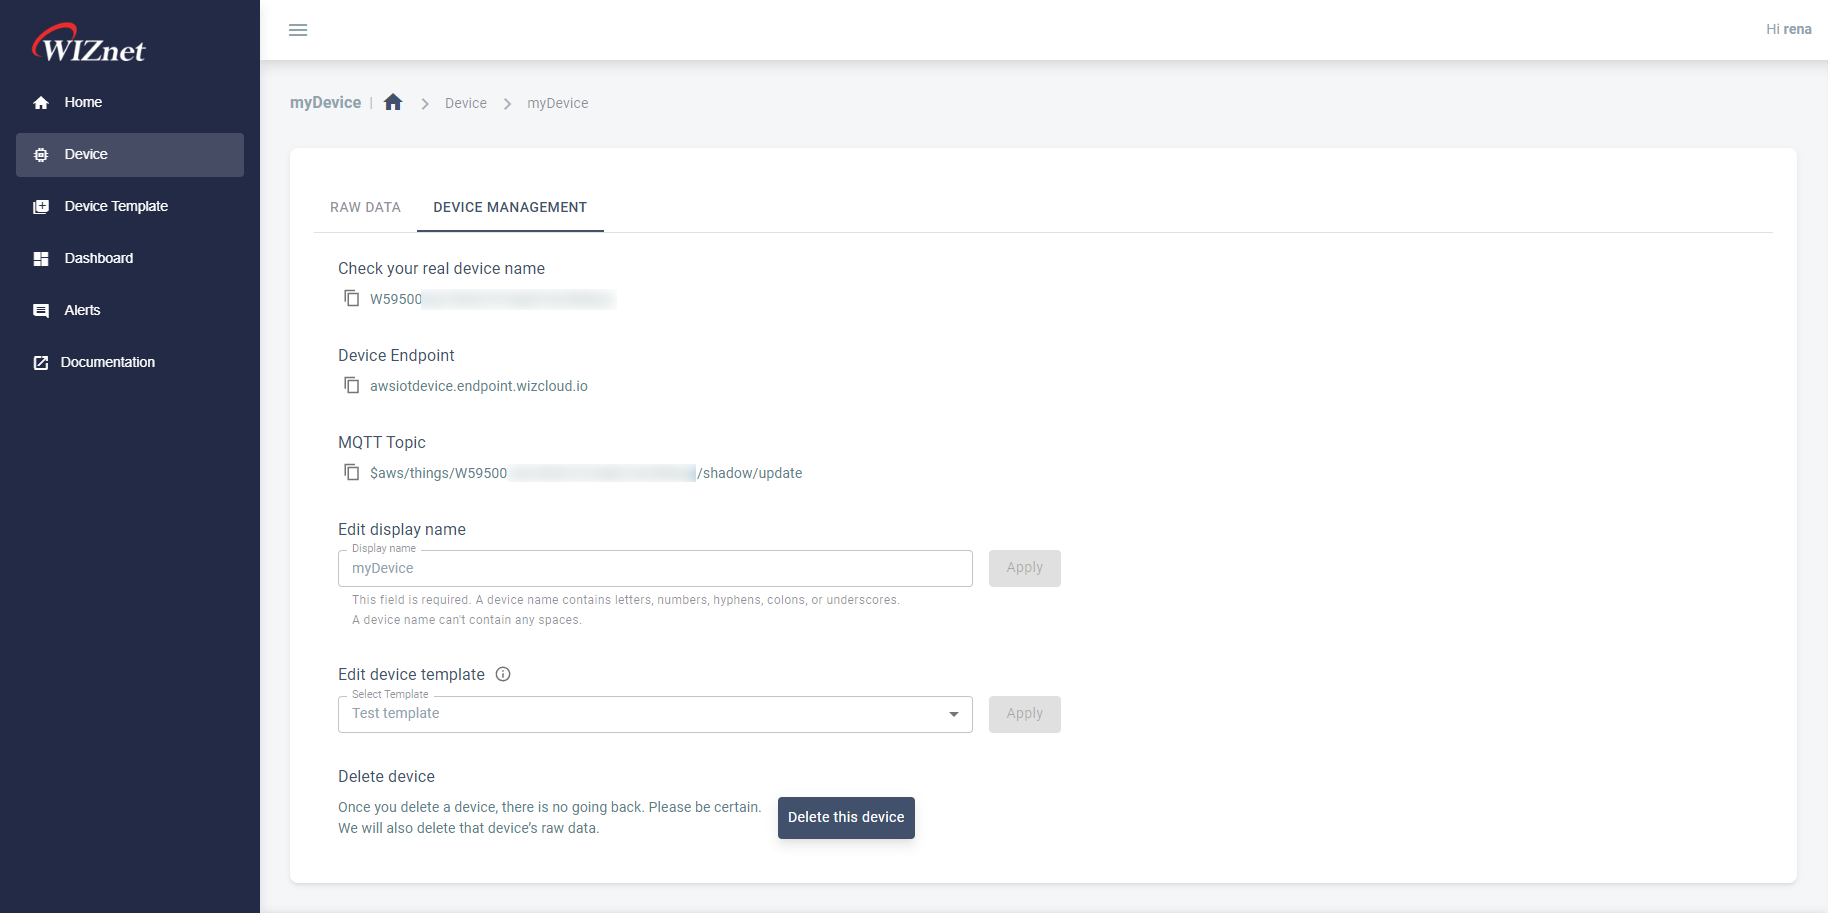
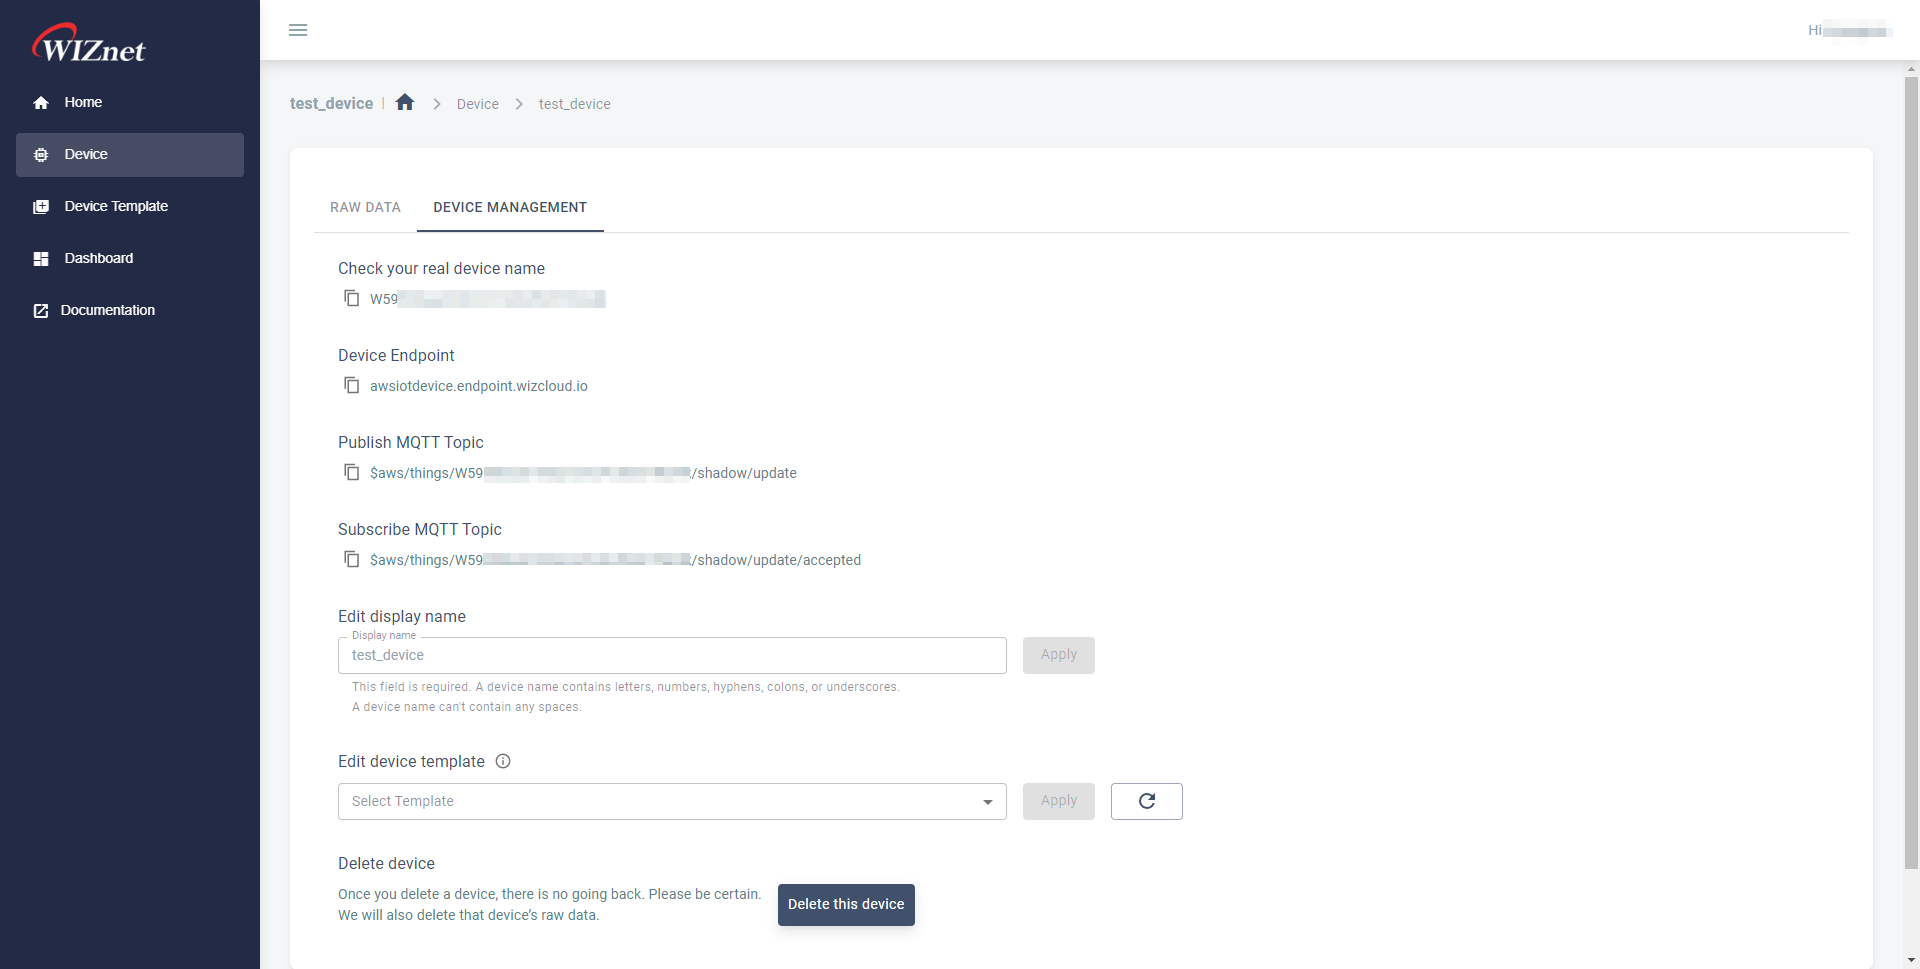
Add topic explain

Changed region(s): [[0.0, 0.0, 1.0, 1.0], [0.5301, 0.7667, 0.6236, 0.8587], [0.5301, 0.5827, 0.5925, 0.7054]]

diff --git a/i18n/ko-kr/docusaurus-plugin-content-docs/current/quickstart/how-to-connect-device/creating-dashboard.md b/i18n/ko-kr/docusaurus-plugin-content-docs/current/quickstart/how-to-connect-device/creating-dashboard.md
@@ -45,7 +45,9 @@ import useBaseUrl from '@docusaurus/useBaseUrl'
 <br />
 
 위젯 생성 입력란들은 모두 필수입니다. 먼저 위젯 타이틀을 입력하고, 위젯 타입을 선택합니다. 위젯 타입에는 **D2C, C2D** 두 개의 타입이 있습니다.
-**D2C** 타입은 **Device to Control**의 약자로, 디바이스에서 보내는 데이터를 시각화하는 데에 사용하는 위젯입니다. 대표적으로 Line, Bar 차트 등이 있습니다. **C2D** 는 Control to Device 의 약자로, 디바이스에 명령을 보내는 위젯 타입입니다. 디바이스에 MQTT Message를 보내거나 ON/OFF 메시지를 보낼 수 있습니다. <br />
+**D2C** 타입은 **Device to Control**의 약자로, 디바이스에서 보내는 데이터를 시각화하는 데에 사용하는 위젯입니다. 대표적으로 Line, Bar 차트 등이 있습니다. **C2D** 는 Control to Device 의 약자로, 디바이스에 명령을 보내는 위젯 타입입니다. 디바이스에 MQTT Message를 보내거나 ON/OFF 메시지를 보낼 수 있습니다.
+
+C2D 위젯 중 **Publish MQTT Message** 위젯은 토픽이 정해져 있지 않고, `원하는 토픽`으로 `원하는 형태의 메시지`를 보낼 수 있습니다. ON/OFF 메시지를 보내는 **Switch** 위젯은 `$aws/things/YOUR_DEVICE_NAME/shadow/update/accepted` 토픽을 사용해서, `{"message": "on"}` 형태의 메시지를 보냅니다.
 
 여기에서는 Line chart를 만들기 위해서 D2C 타입을 선택했습니다. 타입을 선택한 후 Widget Library에서 **Browse** 버튼을 클릭해서 위젯을 선택합니다.
 

diff --git a/docs/quickstart/how-to-connect-device/creating-dashboard.md b/docs/quickstart/how-to-connect-device/creating-dashboard.md
@@ -48,6 +48,8 @@ All input fields are required. First, enter the widget title and select the widg
 **D2C** type is an abbreviation of **Device to Control** and is a widget used to visualize the data sent from the device. Typical examples include line and bar charts.
 **C2D** is an abbreviation of **Control to Device**, which is a widget type that sends commands to the device. You can send MQTT messages or send ON/OFF messages.
 
+Among C2D widgets, the **Publish MQTT Message** widget does not have a fixed topic, but can send a 'message in the desired format' to a 'desired topic'. **Switch** widgets that send ON/OFF messages use the topic `$aws/things/YOUR_DEVICE_NAME/shadow/update/accepted` and send messages of the form `{"message": "on"}`.
+
 In this tutorial, the D2C type is selected to create a line chart.
 Click the **Browse** button to select a library of widgets from among D2C type widgets.
 

diff --git a/docs/quickstart/how-to-connect-device/connecting-device-cloud.md b/docs/quickstart/how-to-connect-device/connecting-device-cloud.md
@@ -54,7 +54,9 @@ git clone https://github.com/Wiznet/RP2040-HAT-AWS-C.git
 
 Setup requires a domain and device name.
 Go to the detail page of the device which you created in the previously step and click the **Device Management** tab.
-Copy the device name and endpoint from the tab and edit the file below. <br />
+Copy the device name and endpoint from the tab and edit the file below.
+
+On this page, you can also check MQTT topics that can be published/subscribed. MQTT messages can only be processed in the Cloud using a defined topic. Subscribe Topic is used in the Switch widget in the Dashboard. On/Off messages are sent to the specified Subscribe Topic. The message is of the form `{"message": "on"}`. <br/>
 
 <div>
     <img alt="template-list" src={useBaseUrl('/img/quickstart/connecting-device-cloud/device_management_tab.png')} />

diff --git a/i18n/ko-kr/docusaurus-plugin-content-docs/current/quickstart/how-to-connect-device/connecting-device-cloud.md b/i18n/ko-kr/docusaurus-plugin-content-docs/current/quickstart/how-to-connect-device/connecting-device-cloud.md
@@ -57,6 +57,8 @@ git clone https://github.com/Wiznet/RP2040-HAT-AWS-C.git
 이전 단계에서 생성한 디바이스의 상세 페이지로 가서 **Device Management** tab을 클릭합니다.
 해당 탭에서 디바이스의 이름과 endpoint를 복사해서 아래의 파일을 수정합니다. <br />
 
+이 페이지에서는 Publish/Subscribe 할 수 있는 MQTT Topic도 확인할 수 있습니다. 정해진 토픽을 사용해야만 클라우드에서 MQTT 메시지를 처리할 수 있습니다. Subscribe Topic은 대시보드에서 Switch 위젯에서 사용됩니다. 정해진 Subscribe Topic으로 On/Off 메시지를 보냅니다. 메시지는 `{"message": "on"}` 형태입니다.
+
 <div>
     <img alt="template-list" src={useBaseUrl('/img/quickstart/connecting-device-cloud/device_management_tab.png')} />
 </div>
